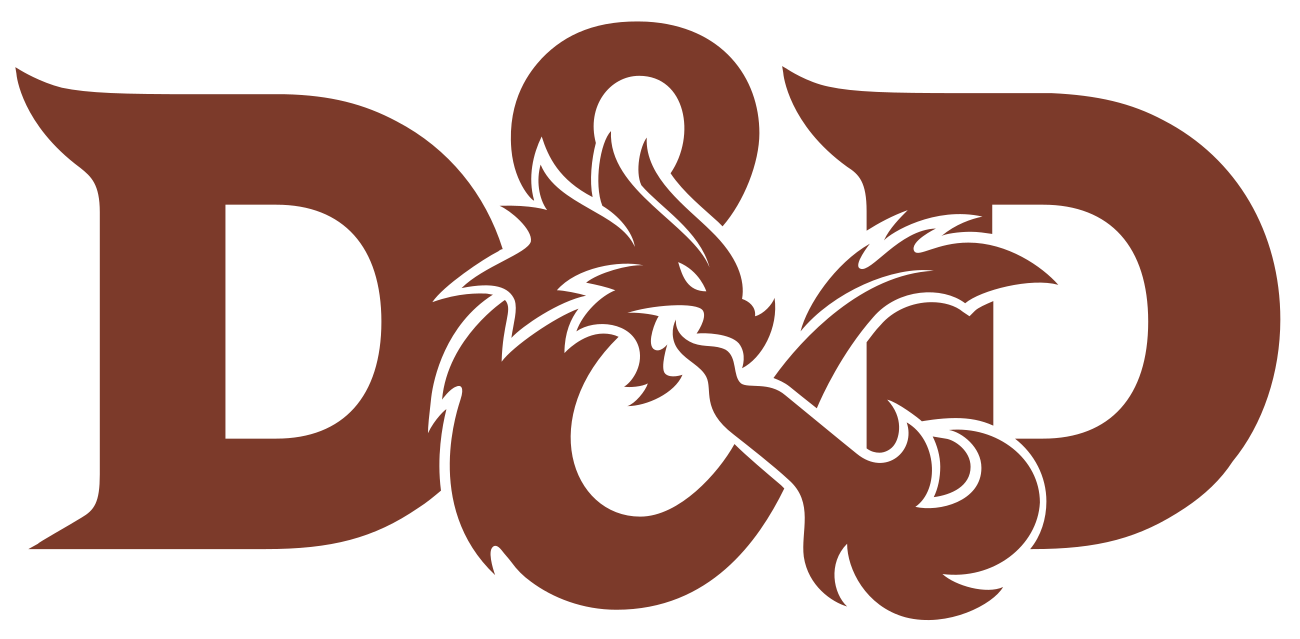
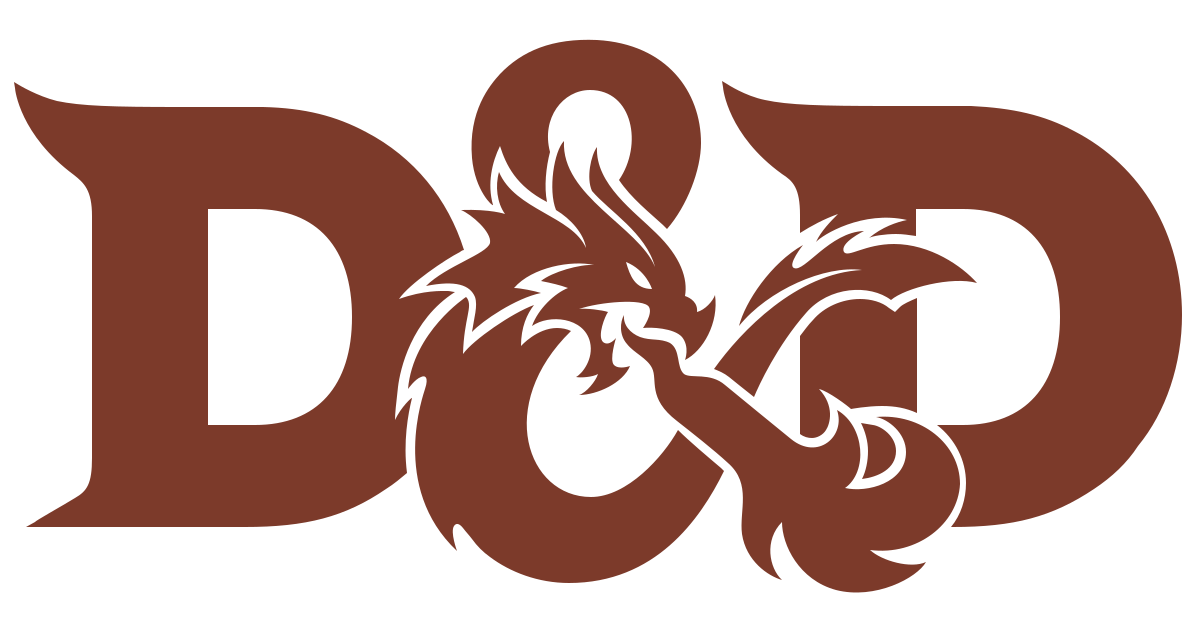
proper image ratio used

diff --git a/index.html b/index.html
@@ -10,7 +10,6 @@
   <meta property="og:type"        content="website">
   <meta property="og:title"       content="Heroes of Mansken">
   <meta property="og:description" content="A Tyranny of Dragons campaign">
-  <meta property="og:url"         content="https://arekexora.github.io/ToD24/">
   <meta property="og:image"        content="https://arekexora.github.io/ToD24/og.png">
   <meta property="og:image:width"  content="1300">
   <meta property="og:image:height" content="639">
